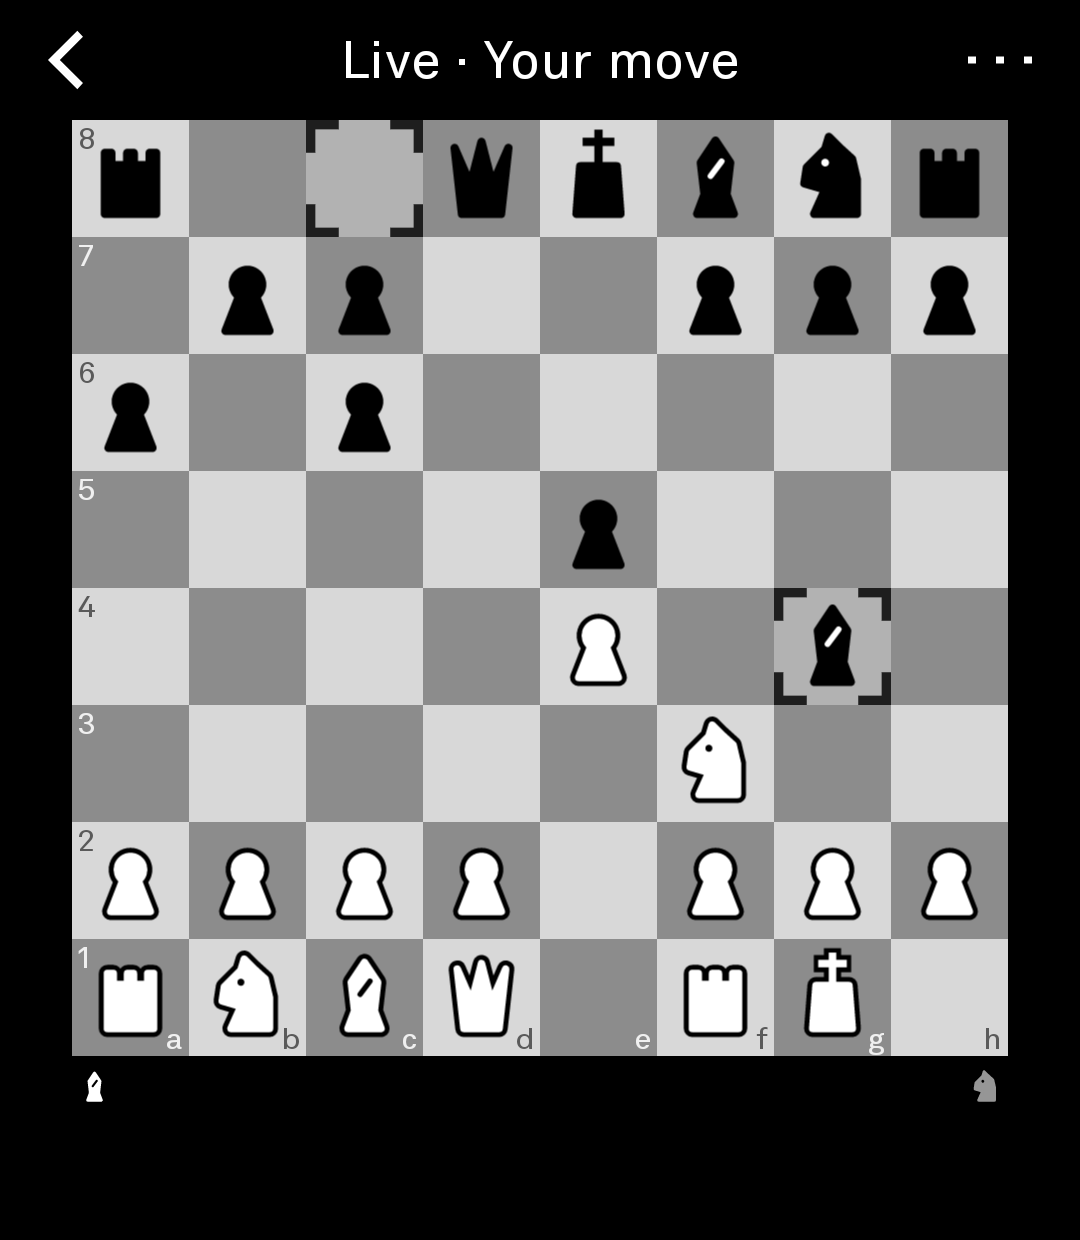
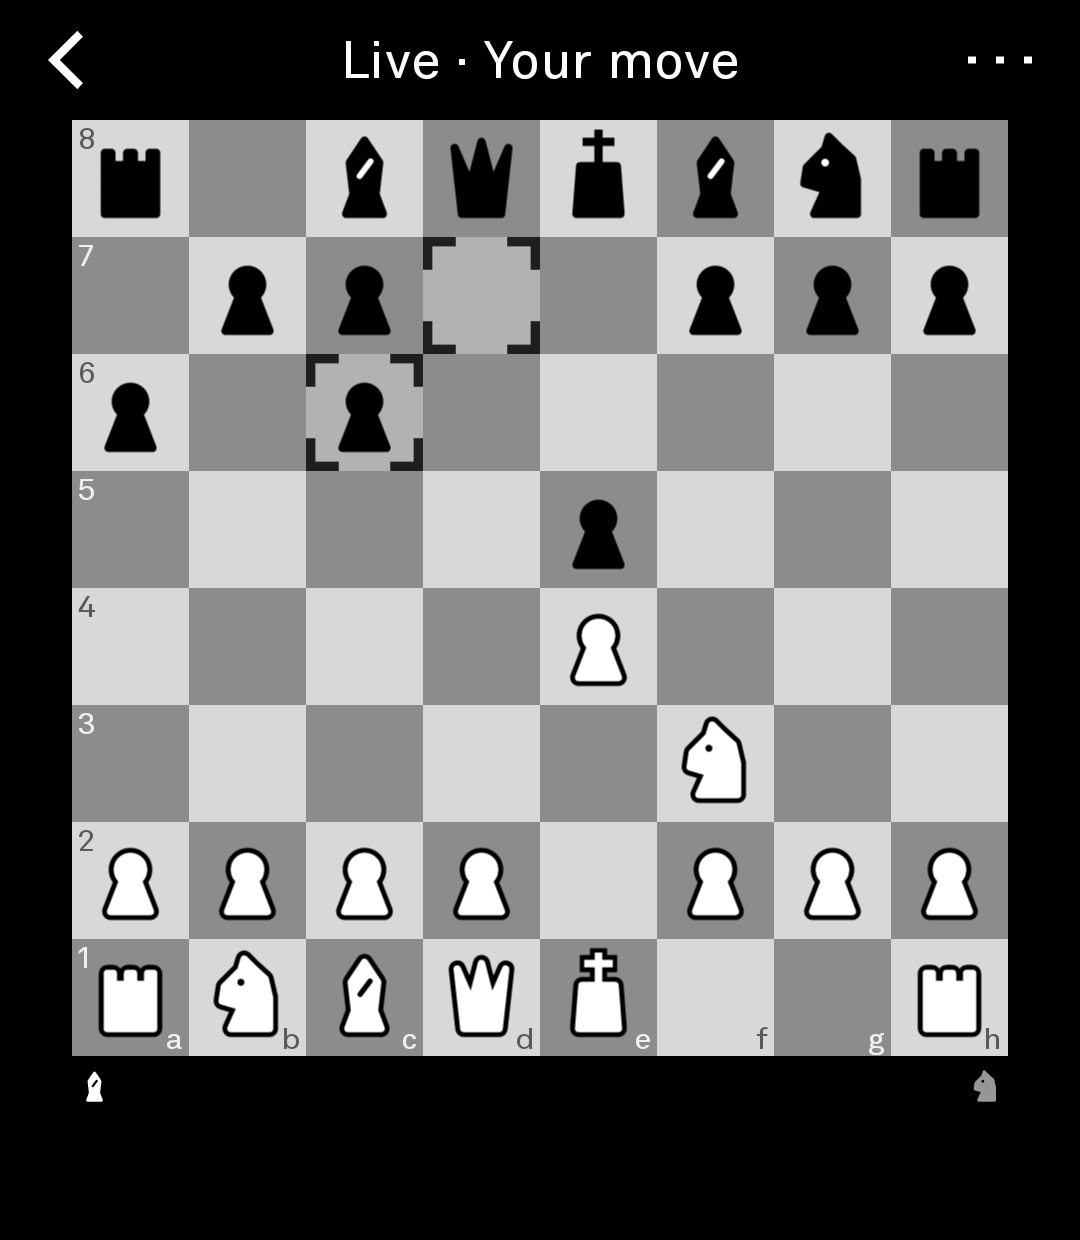
Release 0.5.1 (#39)
Version 0.5.1, versionCode 8, on light-sdk v0.2.10. Carries #38 (Light's design note, LD1-LD4). Emulator builds pass -DlightSdk.allowAltServerPackage=true (light-sdk PR #234); the text editor's initialCaps is now autoCapitalize. README screenshots retaken on the LP3.

Claude-Session: https://claude.ai/code/session_01Hb4BZmPp5FrRnoXWNJ7y2E

diff --git a/tool/src/main/kotlin/com/yarosz/chess/UiCopy.kt b/tool/src/main/kotlin/com/yarosz/chess/UiCopy.kt
@@ -114,7 +114,7 @@ object UiCopy {
     const val REPLACE_NOTE = "Your current Game will be saved to Games as unfinished."
 
     /** The Tool's version; `ToolMetadataTest` holds it equal to `versionName` in `tool/lighttool.toml`. */
-    const val VERSION = "0.5.0"
+    const val VERSION = "0.5.1"
     const val SOURCE = "github.com/yarosz/light-chess"
 
     /**

diff --git a/tool/src/main/kotlin/com/yarosz/chess/FriendScreen.kt b/tool/src/main/kotlin/com/yarosz/chess/FriendScreen.kt
@@ -329,7 +329,7 @@ class FriendScreen(
             modifier = Modifier.background(LightThemeTokens.colors.background),
             submitLabel = ActionBarLayout.label(UiCopy.JOIN),
             singleLine = true,
-            initialCaps = true,
+            autoCapitalize = true,
         )
     }
 

diff --git a/scripts/release-drive.py b/scripts/release-drive.py
@@ -83,7 +83,9 @@ def tap(x, y, check=True):
 
 
 def tap_label(label, check=True):
-    hits = [c for t, c in nodes() if t == label] or [c for t, c in nodes() if label in t]
+    # Without case: since LD3 a button's label is in caps ("NEXT"), an older build's isn't ("Next").
+    want = label.casefold()
+    hits = [c for t, c in nodes() if t.casefold() == want] or [c for t, c in nodes() if want in t.casefold()]
     if not hits:
         sys.exit(f'release-drive: nothing labelled "{label}" on screen: {texts()}')
     tap(*hits[0], check=check)

diff --git a/LEDGER.md b/LEDGER.md
@@ -18,10 +18,20 @@ SDK. The bump changed no permission and made one small visible change: the keybo
 friend's text fields (Enter code, Rename) no longer shows a dictation key (`rememberKeyboardOptions`).
 `LightJobResult.Success` takes two more arguments, the SDK's exported file provider left the APK
 (opt-in capability now), and the Tool targets SDK 34, as Light's builds now do.
-SUBMITTED: 0.5.0 went to Light's Tool Library on 2026-10-09 (RELEASING.md "After merge and tag").
+0.5.1 (versionCode 8, on light-sdk v0.2.10): #38, Light's design note (decision log LD1-LD4): Home's
+rows at LightOS Heading size with "Play a friend*" (LightOS's notification asterisk) while a friend
+Game waits on the user; every text button in caps, in LightOS's bottom bar where it fits (START
+GAME, NEW GAME / JOIN GAME, CANCEL, CREATE CODE) and in place under the boards; "Join game" replaces
+"Enter code"; one tap starts a new Game against the computer. The SDK bump from v0.2.0 to v0.2.10
+renamed the text editor's `initialCaps` to `autoCapitalize`; `gradle.properties` `sdkVersion`
+selects Light's builder image. The SDK also offers notifications and push (since v0.2.1; push is
+undocumented) and backups (v0.2.3); scheduled alerts are on its `main`, in no tag yet:
+FOLLOW-UPS below.
+SUBMITTED: 0.5.0 went to Light's Tool Library on 2026-10-09 (RELEASING.md "After merge and tag");
+Light accepted it, and its Tool Library team sent the design note 0.5.1 answers (2026-11-11).
 Light's build (Version 7, from a9fd300) succeeded, and Light's signed APK matches our unsigned build
 entry for entry, plus Light's signing files (`stamp-cert-sha256`, the META-INF v1 signature files,
-`light-trust.json`). Awaiting Light's approval.
+`light-trust.json`). Light accepted it (2026-11-11).
 FOR THE OWNER (none blocks development): Light's build can't install over a dev-signed build (the
 signatures differ), and uninstalling deletes the Player Rating, Missed and the Games, so switching
 the owner's LP3 to Light's build needs a plan first (carry the files over, or accept the loss).
@@ -32,8 +42,12 @@ What remains for Light is whether it signs a GPLv3 Tool; the owner decides what 
 The listing text should answer TOOL_GUIDELINES.md: Puzzles and the computer are fully offline;
 Games with a friend send Moves through the Relay, whose code is in this repo and runs on Cloudflare;
 the privacy disclosure is UiCopy.PRIVACY_FRIENDS. The listing images (and the README's
-screenshots) were taken on the LP3: a Puzzle with its Hint, a live Game with a friend, a won Game.
+screenshots) were taken on the LP3: for 0.5.0 a Puzzle with its Hint, a live Game with a friend, a won
+Game; the README's since 0.5.1: Home, a Puzzle with its Hint, a live Game with a friend.
 Optional: Always Use HTTPS/HSTS on the Relay's zone (the Worker already refuses plain HTTP, L3).
+NEXT MILESTONE (owner, 2026-11-21): notifications ("Your move" in a friend Game while Chess is
+closed: a periodic sync job or Relay push, `POST_NOTIFICATIONS`; light-sdk `notifications`, since v0.2.1)
+and backups (light-sdk docs/backups: Tool Manager `canBeBackedUp` for the save files).
 FOLLOW-UPS (low, from code review; none blocking):
 - LightOS's "Allowed Tools" setting has four values: Default Only, Community Tools (Light-approved),
   Built with SDK (Light-signed) and All Tools. The SDK v0.2.0 emulator's LightOS defaults to
@@ -41,9 +55,6 @@ FOLLOW-UPS (low, from code review; none blocking):
   LightOS service token ("Rejected GetToken from unverified caller"). Chess's emulator still runs
   the LightOS app from before v0.2.0; if it is ever upgraded to v0.2.0's, set Settings > Allowed
   Tools > Built with SDK (or All Tools, for a dev-signed build).
-- When an SDK tag includes light-sdk PR #234 (a build fails unless `serverPackage` is `com.lightos`,
-  or `-DlightSdk.allowAltServerPackage=true` is passed), emulator builds must pass that flag: the
-  `scripts/emulator-build.sh` path (`mise run tool`, `mise run ci`), never `light-build.sh`.
 - Later: Light's backups (discussion #255), once its SDK side ships.
 - Games with a friend don't slide Moves yet (Z1 left `FriendOwner` out; slides come when that code
   is rewritten).
@@ -60,7 +71,11 @@ FOLLOW-UPS (low, from code review; none blocking):
   config; a cold-started `friend-send` job REPLACEs itself once (FriendOwner init).
 - Navigation D: `Rows.HEIGHT` (48 dp) is the wheel step while Home's and the pages' rows measure
   about 53 dp, so a detent scrolls slightly under a row (predates Navigation D).
-LP3 CHECKS. Done on the LP3 on 2026-10-03, in Akkurat: the arrow's ink at pixels 48-82, with the
+LP3 CHECKS. Done for 0.5.1 on 2026-11-21, in Akkurat on LightOS 592: Home at Heading size and
+"Play a friend*"; the caps action rows and bottom bars against Light's mock-ups; About "Chess
+0.5.1"; on SDK v0.2.10's text editor (no external keyboard app on 592, so the built-in keyboard),
+Join game answers "No such code" in its title and keeps the field, and Rename's SAVE stores the label.
+Done on the LP3 on 2026-10-03, in Akkurat: the arrow's ink at pixels 48-82, with the
 Menu mark level with it; Home's first view (five rows fit); the Pieces preview in a board's Menu; a
 fast scrub back past a Review's start leaves the brightness alone (N20); each button's target is the
 whole row (#22: Hint and Solution span 1056-1240 px). Still open, to confirm or drop: the widest
@@ -77,7 +92,7 @@ parentheses, Home's row plain "Puzzles", About "Chess 0.5.0".
 DONE (details in the PRs and the decision log): the v1 stack and 0.1.0 (LP3-checked 2026-09-29),
 the v2 forward merge (M1-M7) and 0.2.0, the Relay deploy and v3 (#3, #10 P3) and 0.3.0, 0.3.1, then
 #16-#26 above.
-LAST SESSION: 2026-10-09 (0.5.0 submitted to Light; LP3 screenshots in the README)
+LAST SESSION: 2026-11-21 (Light's design note, #38; the 0.5.1 release PR on light-sdk v0.2.10)
 
 ## HANDOFF (read first when resuming)
 - Every feature branch (the v1 stack, v2's engine, Levels, record, Book and game screen, v3's

diff --git a/README.md b/README.md
@@ -7,42 +7,44 @@ Your Player Rating moves with every rated Puzzle, and the ones you missed wait f
 Or play the computer at one of eight Levels, on the phone itself, or a friend by correspondence, a
 few days per Move. No account and nothing tracked; only Games with a friend use the network.
 
-> **Status: 0.5.0, Puzzles (v1), playing the computer (v2) and playing a friend by correspondence
-> (v3) are done; not yet listed by Light.** A Light Phone III Tool built on
-> [Light's SDK](https://github.com/lightphone/light-sdk).
+> **Status: 0.5.1. Puzzles (v1), playing the computer (v2) and playing a friend by correspondence
+> (v3) are done. Light has reviewed and accepted Chess. It is not listed by Light yet.** A Light
+> Phone III Tool built on [Light's SDK](https://github.com/lightphone/light-sdk).
 
 Questions or bugs: https://github.com/yarosz/light-chess/issues
 
 <p>
-  <img src="docs/screenshots/puzzle.png" width="32%" alt="A Puzzle, White to move: the Hint rings the white queen on g4, with Hint and Solution under the board">
-  <img src="docs/screenshots/live.png" width="32%" alt="A Game with a friend, Live · Your move: the Ruy Lopez Exchange, Black's last Move a bishop to g4">
-  <img src="docs/screenshots/won.png" width="32%" alt="A Game against the computer, playing Black with the rounded Piece Set: You won by checkmate, the Captured Pieces showing +2, and Next under the board">
+  <img src="docs/screenshots/home.png" width="32%" alt="Home: the title Chess, then Puzzles, Play the computer, Play a friend, Games and About in large type">
+  <img src="docs/screenshots/puzzle.png" width="32%" alt="A Puzzle, Black to move after a wrong try: the Hint rings the black queen on h7, with HINT and SOLUTION under the board">
+  <img src="docs/screenshots/live.png" width="32%" alt="A Game with a friend, Live · Your move: the Ruy Lopez Exchange, Black's last Move a pawn taking on c6">
 </p>
 
-_A Puzzle with its Hint, a live Game with a friend, and a won Game against the computer with the
-rounded Piece Set. Taken on a Light Phone III._
+_Home, a Puzzle with its Hint, and a live Game with a friend. Taken on a Light Phone III._
 
 ## What it does
 
 - **Home.** Chess opens where you left off, with Home underneath: Puzzles, Play the computer, Play
-  a friend, Games and About. Puzzles opens a page of its own: continue the Puzzle on screen, Missed,
+  a friend, Games and About. "Play a friend*" has LightOS's asterisk while a Game waits on your Move. Puzzles opens a page of its own: continue the Puzzle on screen, Missed,
   Past Puzzles and your Player Rating, in parentheses until it has settled. On a board, the top bar
   says what is happening: its arrow goes back, as the phone's back does, and the three squares at
-  its right open the board's Menu, with Pieces. The buttons for the moment sit under the board.
+  its right open the board's Menu, with Pieces. The buttons for the moment sit under the board, and a
+  page's buttons sit in the bottom bar, in capitals as in LightOS.
 - **Puzzles.** Tap a piece, then a square, or drag it. A wrong Move is taken back and you can try again.
-  "Hint" marks the piece to move; "Solution" plays the line for you.
+  HINT marks the piece to move. SOLUTION plays the line for you.
 - **Player Rating.** A Glicko-2 rating, like Lichess's own, picks each Puzzle near your level. Answer
   one question on first launch, or skip it.
 - **Missed.** The last 100 Puzzles you failed or needed a Hint for, to replay unrated.
 - **Play the computer.** Choose a Level from 1 to 8 and play as White, Black or at random. Level 8 is
   the computer's full strength, with a Think Time of 3, 10 or 30 seconds a Move. From Level 2 up it
-  opens from a Book of strong players' Games. "Hint" shows the computer's best Move (a Game Hint);
-  "Move now" makes it play at once. The Menu has Takeback, Offer draw, Resign, Flip board and the
-  Game's Moves. When the computer's Move ends the Game, the Result offers "Takeback · Next". A Game
+  opens from a Book of strong players' Games. HINT shows the computer's best Move (a Game Hint), and
+  MOVE NOW makes it play at once. The Menu has Takeback, Offer draw, Resign, Flip board and the
+  Game's Moves. When the computer's Move ends the Game, the Result offers TAKEBACK and NEXT. START
+  GAME replaces a Game in progress at once, and the old one goes to Games, unfinished. A Game
   in progress is kept when you leave, and Games lists your last 50 finished ones to look back
   through.
-- **Play a friend.** Create an Invite Code and tell it to your friend; it works once, for 48 hours.
-  Choose 1, 3 or 7 days per Move. Each Move waits for "Send", with "Undo" until then. The Menu has
+- **Play a friend.** NEW GAME opens a page where you choose your Side and 1, 3 or 7 days per Move.
+  CREATE CODE then makes an Invite Code to tell your friend. It works once, for 48 hours. JOIN GAME
+  takes your friend's code. Each Move waits for SEND, with UNDO until then. The Menu has
   Offer draw and Resign; a finished Game offers a rematch. Moves pass through Chess's Relay, with no
   name or account. While both phones have the Game open, Moves arrive at once and the board shows
   "Live · Your move" or "Live · Their move".

diff --git a/AGENTS.md b/AGENTS.md
@@ -75,7 +75,9 @@ out of type names.
   would crash. `ToolMetadataTest` and `scripts/release-check.sh apk` keep the stack out of the APK.
 - `serverPackage` in `tool/lighttool.toml` stays `"com.lightos"` (LightOS on the phone): Light builds
   releases from the committed file. Emulator builds swap it at build time via `scripts/emulator-build.sh`
-  (`mise run tool` and `mise run ci` already do). A unit test and `light-build.sh` enforce this.
+  (`mise run tool` and `mise run ci` already do), which also passes
+  `-DlightSdk.allowAltServerPackage=true`: since light-sdk v0.2.10 the plugin refuses another value
+  without it. A unit test and `light-build.sh` enforce this.
 - Assets under `tool/src/main/assets/` must use Light's allowlisted extensions and stay under 5 MB per
   file (the Pack is one `.txt` per Band for this reason, ADR 0003).
 

diff --git a/RELEASING.md b/RELEASING.md
@@ -12,7 +12,7 @@ tagged commit on `main`, not an APK we build.
   - `versionCode`: +1 every release, never reused, never lower. Light's build server rejects a
     `versionCode` that isn't greater than the last published one, and Android refuses to install a
     lower one over a higher one. 0.1.0 is `versionCode = 1`, 0.2.0 is `2`, 0.3.0 is `3`,
-    0.3.1 is `4`, 0.4.0 is `5`, 0.4.1 is `6`, 0.5.0 is `7`.
+    0.3.1 is `4`, 0.4.0 is `5`, 0.4.1 is `6`, 0.5.0 is `7`, 0.5.1 is `8`.
 - The Tool id `com.yarosz.chess` is permanent from the first published build. Never change it.
 - Tag the merged release commit `vX.Y.Z`. The GitHub Release carries notes only, no APK.
 - Release notes users see are the changelog entered on Light's dashboard: three lines, in the

diff --git a/DESIGN.md b/DESIGN.md
@@ -361,7 +361,7 @@ copy for the object on screen, while code names the chess state a Position.
   (P2, M1; a tap moves to the next set and stays on the Menu); on the Puzzle board, "Puzzle 00sHx"
   over "lichess.org/training/00sHx".
 - About (D7): plain text, one paragraph per line below, that scrolls by touch and by the wheel (F3).
-  - "Chess $VERSION" (0.5.0, equal to `versionName`)
+  - "Chess $VERSION" (0.5.1, equal to `versionName`)
   - "Copyright 2026 Nicolas Yarosz."
   - "Free software under the GNU General Public License, version 3 or later, with no warranty."
   - "Source: $SOURCE" (github.com/yarosz/light-chess, as text: the phone has no browser)

diff --git a/docs/release-notes/0.5.1.md b/docs/release-notes/0.5.1.md
@@ -1,0 +1,3 @@
+Home's list now uses the larger text of LightOS's own lists. Buttons are in capitals, as in LightOS, and a page's buttons sit in the bottom bar.
+A new game takes one tap, even while another is in progress. Play a friend shows an asterisk when it's your move. Enter code is now Join game.
+Your Puzzles, Player Rating, Missed, and Games carry over.
